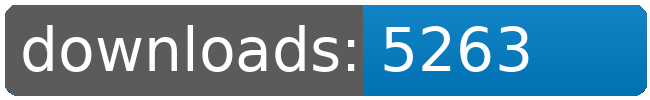
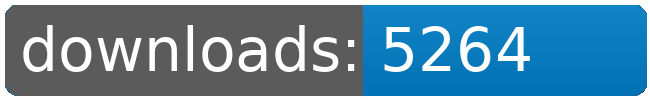
dl log written

Changed region(s): [[0.7692, 0.24, 0.8308, 0.72]]

diff --git a/README.md b/README.md
@@ -21,8 +21,8 @@
 		<td>5203</td>
 		<td>5228</td>
 		<td>5253</td>
-		<td>5263</td>
-		<td>+ 10</td>
+		<td>5264</td>
+		<td>+ 11</td>
 	</tr>
 	<tr>
 		<td>Factory.Outlets</td>
@@ -109,8 +109,8 @@
 		<td></td>
 		<td></td>
 		<td></td>
-		<td>42240</td>
-		<td>67</td>
+		<td>42241</td>
+		<td>68</td>
 	</tr>
 </table>
 </sub></sup>
@@ -157,8 +157,8 @@
 		<td>5203</td>
 		<td>5228</td>
 		<td>5253</td>
-		<td>5263</td>
-		<td>+ 10</td>
+		<td>5264</td>
+		<td>+ 11</td>
 	</tr>
 	<tr>
 		<td>Korunak.Defense.Drones</td>
@@ -223,8 +223,8 @@
 		<td></td>
 		<td></td>
 		<td></td>
-		<td>42240</td>
-		<td>67</td>
+		<td>42241</td>
+		<td>68</td>
 	</tr>
 </table>
 </sub></sup>
@@ -232,7 +232,6 @@
 <table>
 	<tr>
 		<td> </td>
-		<td>2026-04-06</td>
 		<td>2026-04-07</td>
 		<td>2026-04-08</td>
 		<td>2026-04-09</td>
@@ -241,10 +240,10 @@
 		<td>2026-04-12</td>
 		<td>2026-04-13</td>
 		<td>2026-04-14</td>
+		<td>2026-04-15</td>
 	</tr>
 	<tr>
 		<td>page views</td>
-		<td>39</td>
 		<td>12</td>
 		<td>7</td>
 		<td>9</td>
@@ -253,10 +252,10 @@
 		<td>1</td>
 		<td>19</td>
 		<td>8</td>
+		<td>4</td>
 	</tr>
 	<tr>
 		<td>unique visitors</td>
-		<td>9</td>
 		<td>7</td>
 		<td>4</td>
 		<td>5</td>
@@ -265,6 +264,7 @@
 		<td>1</td>
 		<td>6</td>
 		<td>4</td>
+		<td>3</td>
 	</tr>
 </table>
 <br>
@@ -278,8 +278,8 @@
 	</tr>
 	<tr>
 		<td>2025-10-13</td>
-		<td>4595</td>
-		<td>1327</td>
+		<td>4599</td>
+		<td>1330</td>
 		<td>169</td>
 		<td>45</td>
 	</tr>
@@ -292,8 +292,8 @@
 	</tr>
 	<tr>
 		<td>185</td>
-		<td>24.84</td>
-		<td>7.17</td>
+		<td>24.86</td>
+		<td>7.19</td>
 		<td></td>
 		<td></td>
 	</tr>
